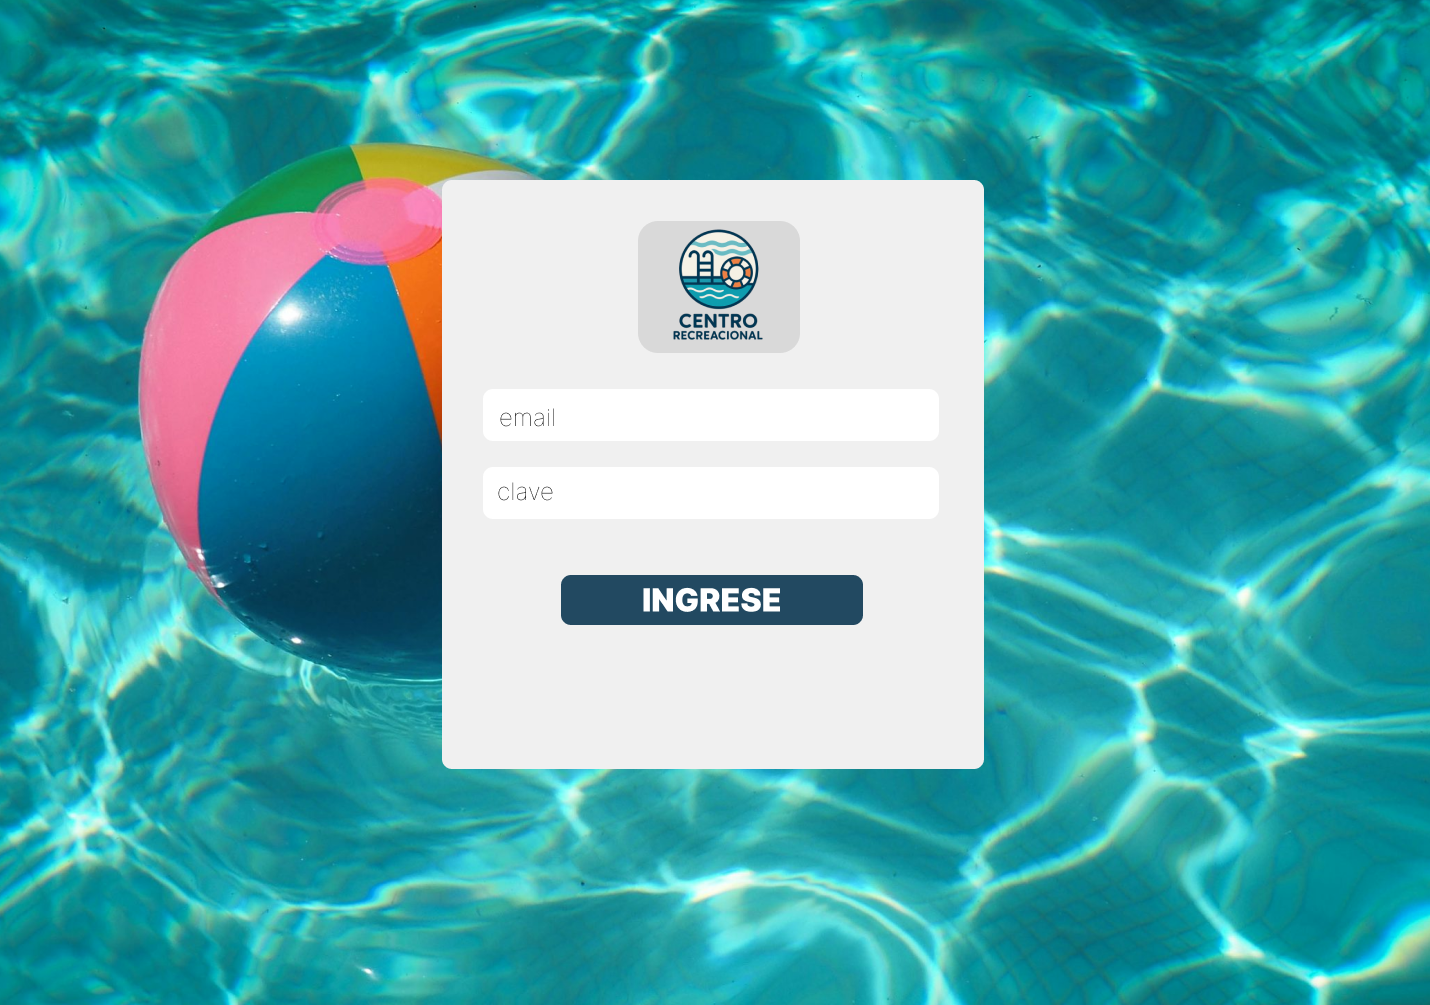
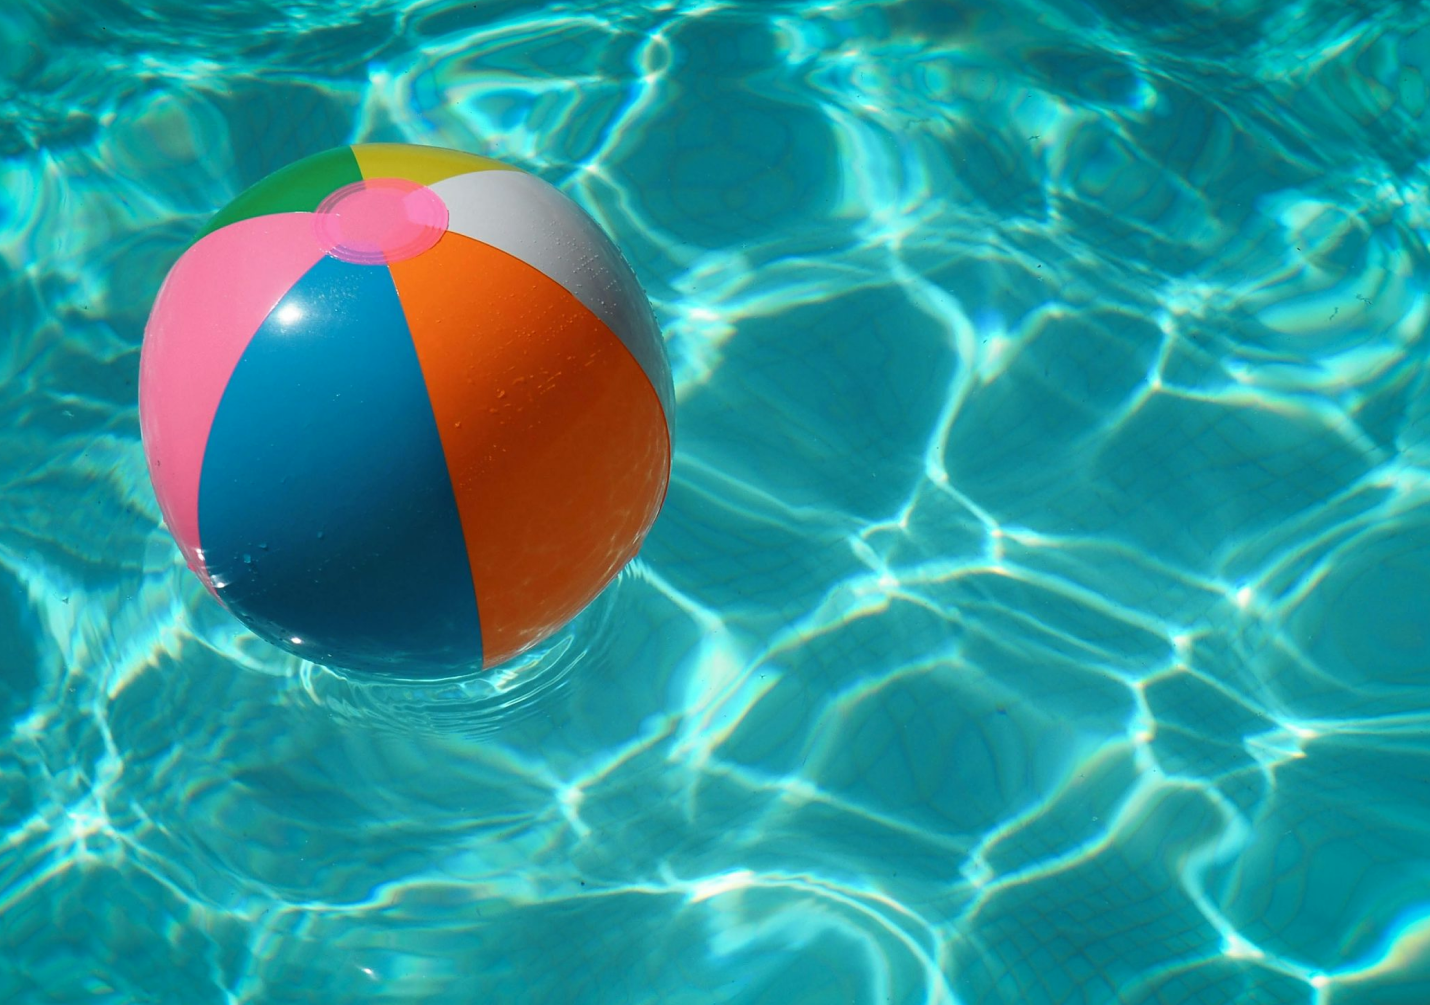
agrega mejoras al login

Changed region(s): [[0.3077, 0.1542, 0.7077, 0.7711]]

diff --git a/cradso/html/styles/login.css b/cradso/html/styles/login.css
@@ -1,0 +1,198 @@
+body{
+    background-color: white;
+    margin: 0;
+}
+
+header{
+    background-color: #282AB2;
+    height: 110px;
+    width: 100%;
+    display: flex;
+    align-items: center;
+    justify-content: space-between;
+    position: fixed;
+    box-shadow: 0px 0px 6px 0px rgba(0, 0, 0, 0.5);
+    z-index: 1000;
+}
+
+#logo-header{
+    margin: 0;
+    padding: 0;
+    width: 5%;
+}
+
+.logo{
+    width: 100%;
+    border-radius: 30%;
+    position: relative;
+    left: 20px;
+}
+
+#menu-header{
+    display: flex;
+    gap: 1em;
+    align-items: center;
+    justify-content: space-around;
+}
+
+#lista-menu{
+    list-style: none;
+    padding: 0;
+    margin: 0;
+    display: flex;
+    flex-direction: row;
+    gap: 1em;
+}
+
+li{
+    color: white;
+    padding: 10px;
+}
+
+.links-nav{
+    color: white;
+    text-decoration: none;
+    padding: 10px;
+    width: 3cm;
+    font-weight: bold;
+    font-family: Arial, sans-serif;
+    font-size: 20px;
+}
+
+#botones-header{
+    display: flex;
+    gap: 1em;
+    align-items: center;
+    justify-content: space-around;
+    margin: 11px;
+}
+
+.login-reg{
+    display: flex;
+    gap: 1em;
+    align-items: center;
+    justify-content: space-around;
+    color: white;
+    background-color: rgb(0, 128, 0);
+    padding: 10px;
+    border-radius: 5px;
+    font-family:'Lucida Sans';
+    font-size: 16px;
+    font-weight: bold;
+    width: 150px;
+    border: none;
+    height: 45px;
+}
+
+main{
+    position: relative;
+    top: 0.01%;
+    background-color: aliceblue;
+    width: 100%;
+    margin: 0 auto;
+}
+
+#seccion-ban{
+    display: grid;
+    position: relative;
+    top: 110px;
+    width: 100%;  
+    height: 86%;
+    background-color: white;
+    margin: 0 auto;
+}
+
+#banner-login{
+    width: 100%;
+    height: 65%;
+}
+
+#contenedor-form{
+    border-radius: 2%;
+    background-color: rgb(109, 109, 168);
+    width: 25%;
+    height: 700%;
+    position: relative;
+    top: -1540%;
+    left: 37%;
+}
+
+form{
+    position: relative;
+    top: 25%; 
+    left: 8%;
+    display: grid;
+    grid-template-rows: repeat(3, 1fr);
+    gap: 100%;
+    width: 83%;
+}
+
+.campo{
+    width: 100%;
+    height: 237%;
+}
+
+footer{
+    position: relative;
+    top: 21%;
+    background-color: #282AB2;
+    height: 340px;
+    width: 100%;
+    display: flex;
+    justify-content: space-around;
+    align-items: center;
+}
+
+#datos-footer{
+    color: white;
+    display: flex;
+    flex-direction: row;
+}
+
+.titulo-dato{
+    font-family: Arial;
+}
+
+.lista-datos{
+    list-style: none;
+    padding: 0;
+    margin: 0;
+    display: flex;
+    flex-direction: column;
+    gap: 0.95em;
+    font-family: Arial;
+}
+
+.separadordata-footer{
+    width: 50px;
+    color: transparent;
+}
+
+#linea{
+    background-color: rgb(77, 55, 206);
+    height: 100%;
+    width: 0.05%;
+    position: relative;
+    right: -6.5%;
+}
+
+#redes-sociales{
+    display: flex;
+    gap: 1em;
+    align-items: center;
+    justify-content: space-around;
+}
+
+#titulo-redes{
+    position: relative;
+    right: -90%;
+    font-family: Arial;
+    color: white;
+}
+
+#logo{
+    position: relative;
+    left: -10%;
+    width: 12%;
+    margin: 0;
+}

diff --git a/cradso/html/login.html b/cradso/html/login.html
@@ -5,7 +5,7 @@
         <title>centro recreacional adso</title>
         <meta name="description" content="">
         <meta name="viewport" content="width=device-width, initial-scale=1">
-        <link rel="stylesheet" href="styles/adolecentes.css">
+        <link rel="stylesheet" href="styles/login.css">
     </head>
     <body>
         <header>
@@ -26,18 +26,13 @@
         </header>
         <main>
             <div id="seccion-ban">
-                <img id="banner-teen" src="imagenes/banner-teen.png">
-                <div id="texto-banner">
-                    <h1 id="titulo-banner">AREA PARA ADOLECENTES</h1>
-                    <prev id="parrafo-banner">
-                        SECCIÓN DEDICADA PRICIPALMENTE A TODO 
-                        PUBLICO DENTRO DEL RANGO DE 12-18 
-                        AÑOS DE EDAD. EL CONJUNTO DE RECINTOS 
-                        CONSTA DE ENTORNOS CON ACTIVIDADES 
-                        DEPORTIVAS (MOTOCROSS, BASKETBALL, 
-                        FUTBOL, Y ALPINISMO), PAINTBALL, 
-                        AREA DE VIDEOJUEGOS ARCADE Y TOBOGAN. 
-                    </prev>
+                <img id="banner-login" src="imagenes/login.png">
+                <div id="contenedor-form">
+                    <form action="/" method="POST">
+                        <input type="email" class="campo" placeholder="Email" required>
+                        <input type="password" class="campo" placeholder="clave" required>
+                        <input type="submit" class="campo" value="ingresar">
+                    </form>
                 </div>
             </div>
         </main>

diff --git a/cradso/index.html b/cradso/index.html
@@ -22,7 +22,7 @@
             </div>
             <div id="botones-header">
                 <input class="login-reg" type="button" value="REGISTRARSE">
-                <input class="login-reg" type="button" value="LOGIN">
+                <a href="html/login.html"><input class="login-reg" type="button" value="LOGIN"></a>
             </div>
         </header>
         <main>

diff --git a/cradso/html/gimnasio.html b/cradso/html/gimnasio.html
@@ -21,7 +21,7 @@
             </div>
             <div id="botones-header">
                 <input class="login-reg" type="button" value="REGISTRARSE">
-                <input class="login-reg" type="button" value="LOGIN">
+                <a href="login.html"><input class="login-reg" type="button" value="LOGIN"></a>
             </div>
         </header>
         <main>

diff --git a/cradso/html/restaurante.html b/cradso/html/restaurante.html
@@ -21,7 +21,7 @@
             </div>
             <div id="botones-header">
                 <input class="login-reg" type="button" value="REGISTRARSE">
-                <input class="login-reg" type="button" value="LOGIN">
+                <a href="login.html"><input class="login-reg" type="button" value="LOGIN"></a>
             </div>
         </header>
         <main>

diff --git a/cradso/html/seccion-adolecentes.html b/cradso/html/seccion-adolecentes.html
@@ -21,7 +21,7 @@
             </div>
             <div id="botones-header">
                 <input class="login-reg" type="button" value="REGISTRARSE">
-                <input class="login-reg" type="button" value="LOGIN">
+                <a href="login.html"><input class="login-reg" type="button" value="LOGIN"></a>
             </div>
         </header>
         <main>

diff --git a/cradso/html/seccion-adultos.html b/cradso/html/seccion-adultos.html
@@ -21,7 +21,7 @@
             </div>
             <div id="botones-header">
                 <input class="login-reg" type="button" value="REGISTRARSE">
-                <input class="login-reg" type="button" value="LOGIN">
+                <a href="login.html"><input class="login-reg" type="button" value="LOGIN"></a>
             </div>
         </header>
         <main>

diff --git a/cradso/html/seccion-infantil.html b/cradso/html/seccion-infantil.html
@@ -21,7 +21,7 @@
             </div>
             <div id="botones-header">
                 <input class="login-reg" type="button" value="REGISTRARSE">
-                <input class="login-reg" type="button" value="LOGIN">
+                <a href="login.html"><input class="login-reg" type="button" value="LOGIN"></a>
             </div>
         </header>
         <main>

diff --git a/cradso/html/styles/adolecentes.css b/cradso/html/styles/adolecentes.css
@@ -82,6 +82,9 @@ li{
     width: 150px;
     border: none;
     height: 45px;
+    transform: scale(1.05);
+    transition: transform 0.2s ease-in-out;
+    cursor: pointer;
 }
 
 main{

diff --git a/cradso/html/styles/adultos.css b/cradso/html/styles/adultos.css
@@ -82,6 +82,9 @@ li{
     width: 150px;
     border: none;
     height: 45px;
+    transform: scale(1.05);
+    transition: transform 0.2s ease-in-out;
+    cursor: pointer;
 }
 
 main{

diff --git a/cradso/html/styles/gimnasio.css b/cradso/html/styles/gimnasio.css
@@ -84,6 +84,9 @@ li{
     width: 150px;
     border: none;
     height: 45px;
+    transform: scale(1.05);
+    transition: transform 0.2s ease-in-out;
+    cursor: pointer;
 }
 
 main{

diff --git a/cradso/html/styles/infantil.css b/cradso/html/styles/infantil.css
@@ -82,6 +82,9 @@ li{
     width: 150px;
     border: none;
     height: 45px;
+    transform: scale(1.05);
+    transition: transform 0.2s ease-in-out;
+    cursor: pointer;
 }
 
 main{
